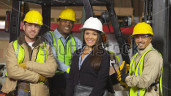
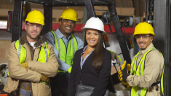
Replace demo image by real ones

diff --git a/index.html b/index.html
@@ -76,7 +76,7 @@
 
 				<!-- Box -->
 				<section class="box feature">
-					<a href="#" class="image featured"><img src="images/earn-time.jpg" alt=""/></a>
+					<a href="#" class="image featured"><img src="images/track-businessman.jpg" alt=""/></a>
 
 					<div class="inner">
 						<header>
@@ -115,13 +115,13 @@
 
 				<!-- Box -->
 				<section class="box feature last">
-					<a href="#" class="image featured"><img src="images/efficient-diffuse.jpg" alt=""/></a>
+					<a href="#" class="image featured"><img src="images/diffuse.jpg" alt=""/></a>
 
 					<div class="inner">
 						<header>
-							<h2>Communiquez efficacement</h2>
+							<h2>Diffusez efficacement</h2>
 
-							<p>Avec un planning clair et lisible pour tous.</p>
+							<p>Un planning clair et lisible pour tous.</p>
 						</header>
 						<p>
 							<strong>Le planning est disponible</strong> en consultation pour tous les membres de l'équipe. En cas de
